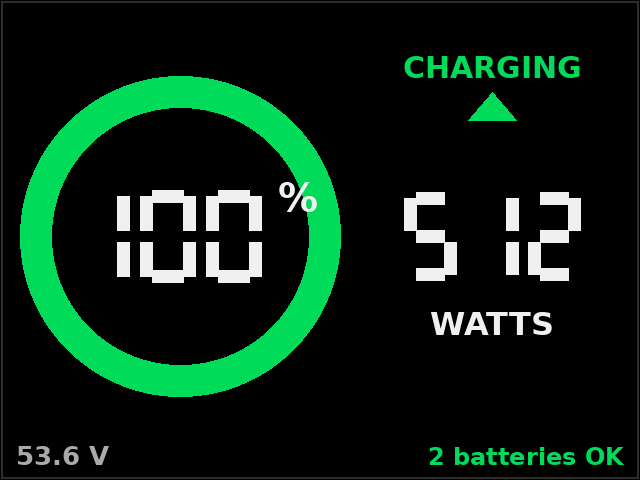
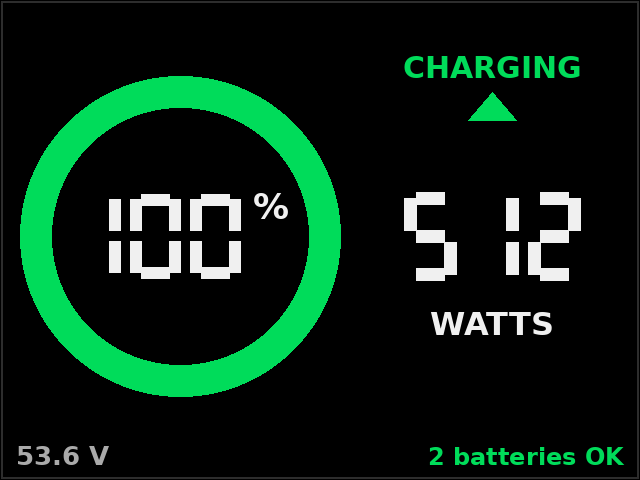
Fix render: centre the 100% group so % clears the ring; correct inverter to ANENJI ANJ-12000W-LVP-WIFI

Changed region(s): [[0.1562, 0.375, 0.5, 0.5938]]

diff --git a/docs/render_panel.py b/docs/render_panel.py
@@ -73,12 +73,18 @@ def main():
     d.arc(box, 0, 360, fill=GREY, width=width)
     d.arc(box, -90, -90 + 3.6 * soc, fill=GREEN, width=width)
 
-    # SOC number + small % superscript, centred in the ring hole
+    # SOC number + small "%" superscript. Centre the WHOLE GROUP in the ring hole
+    # (like the firmware) so neither the number nor the % touches the green ring.
     num = str(soc)
-    dh = 46 * S
-    nx = cx - 6 * S
-    w = draw_number(d, num, nx, cy, dh, WHITE)
-    d.text((nx + w / 2 + 8 * S, cy - dh / 2 + 4 * S), "%", font=f(20 * S),
+    dh = 42 * S
+    dw, gap = int(dh * 0.60), int(dh * 0.12)
+    num_w = len(num) * dw + (len(num) - 1) * gap
+    pf = f(18 * S)
+    pct_w = d.textlength("%", font=pf)
+    group_w = num_w + 6 * S + pct_w
+    num_cx = cx - group_w / 2 + num_w / 2          # number's centre, group centred on cx
+    draw_number(d, num, num_cx, cy, dh, WHITE)
+    d.text((num_cx + num_w / 2 + 6 * S, cy - dh / 2 + 6 * S), "%", font=pf,
            fill=WHITE, anchor="lm")
 
     # Right column: status + big watts + label (matches the firmware exactly)

diff --git a/PROJECT_SCOPE.md b/PROJECT_SCOPE.md
@@ -26,7 +26,7 @@ The guiding principle: **the display stays dumb-simple; Home Assistant gets ever
   - Manufacturer: Shenzhen Shake World New Energy Technology Co., Ltd.
   - BLE module: **HopeRF** (`HP-BLE-1.0` / `HPZXGT01-C-V1.1`).
   - Also expose a wired **RS485 / CAN / UART** port (currently unused).
-- **Inverter/charger:** an **SRNE** unit. **Not yet wired to the batteries** — connecting it
+- **Inverter/charger:** an **ANENJI ANJ-12000W-LVP-WIFI** (12 kW split-phase hybrid; its WiFi dongle is cloud-first, so local data comes from the serial/Modbus port). **Not yet wired to the batteries** — connecting it
   (power + closed-loop BMS comms) is a project goal.
 - **Home Assistant:** runs as a systemd-supervised **QEMU VM at `homeassistant.local`** on the
   Debian laptop (bridged over `br0` on the wired NIC).
@@ -42,7 +42,7 @@ The guiding principle: **the display stays dumb-simple; Home Assistant gets ever
 | 2 | Standalone **parent-friendly CYD display** (no laptop needed) | ✅ Done |
 | 3 | Publish **full detail to Home Assistant** via MQTT discovery | ✅ Done (pending broker) |
 | 4 | Eliminate **Solar Assistant + Raspberry Pi** for battery data | ✅ Achieved for batteries |
-| 5 | Read the **SRNE inverter directly** (solar/load/energy) | 🔜 Future |
+| 5 | Read the **ANENJI inverter directly** (solar/load/energy) | 🔜 Future |
 | 6 | Wire the inverter to the batteries (power + BMS comms) | 🔜 Future |
 
 ## 4. Architecture
@@ -56,7 +56,7 @@ The guiding principle: **the display stays dumb-simple; Home Assistant gets ever
         │ RS485/CAN (future, wired)                          │ ILI9341 TFT
         │                                                    ▼
  ┌────────────┐  (future)                            "parents" glanceable panel
- │ SRNE inverter│  Modbus → solar/load/energy → HA     (big % ring, watts, status)
+ │ ANENJI inverter│  Modbus → solar/load/energy → HA     (big % ring, watts, status)
  └────────────┘
 ```
 
@@ -125,7 +125,7 @@ match the **WATT** device type.
 - [ ] **Charge/discharge FET state** in HA — decode the WATT `DP_WARNING_INFO` status registers
       (`handleWarningInfoResponse` in the decompiled `WattBleProtocolRepository`).
 - [ ] Touchscreen **"Release BLE for 60 s"** button so the app can connect without unplugging.
-- [ ] **SRNE inverter integration** — read Modbus (USB now, WiFi later) for SOLAR / LOAD /
+- [ ] **ANENJI inverter integration** — read Modbus (USB now, WiFi later) for SOLAR / LOAD /
       TODAY kWh, replacing Solar Assistant's role. Add those to the display/HA.
 - [ ] **Wired CAN/RS485 option** — the battery port is currently free; a transceiver
       (SN65HVD230 for CAN / MAX485 for RS485) would let the CYD read wired, sidestepping the
